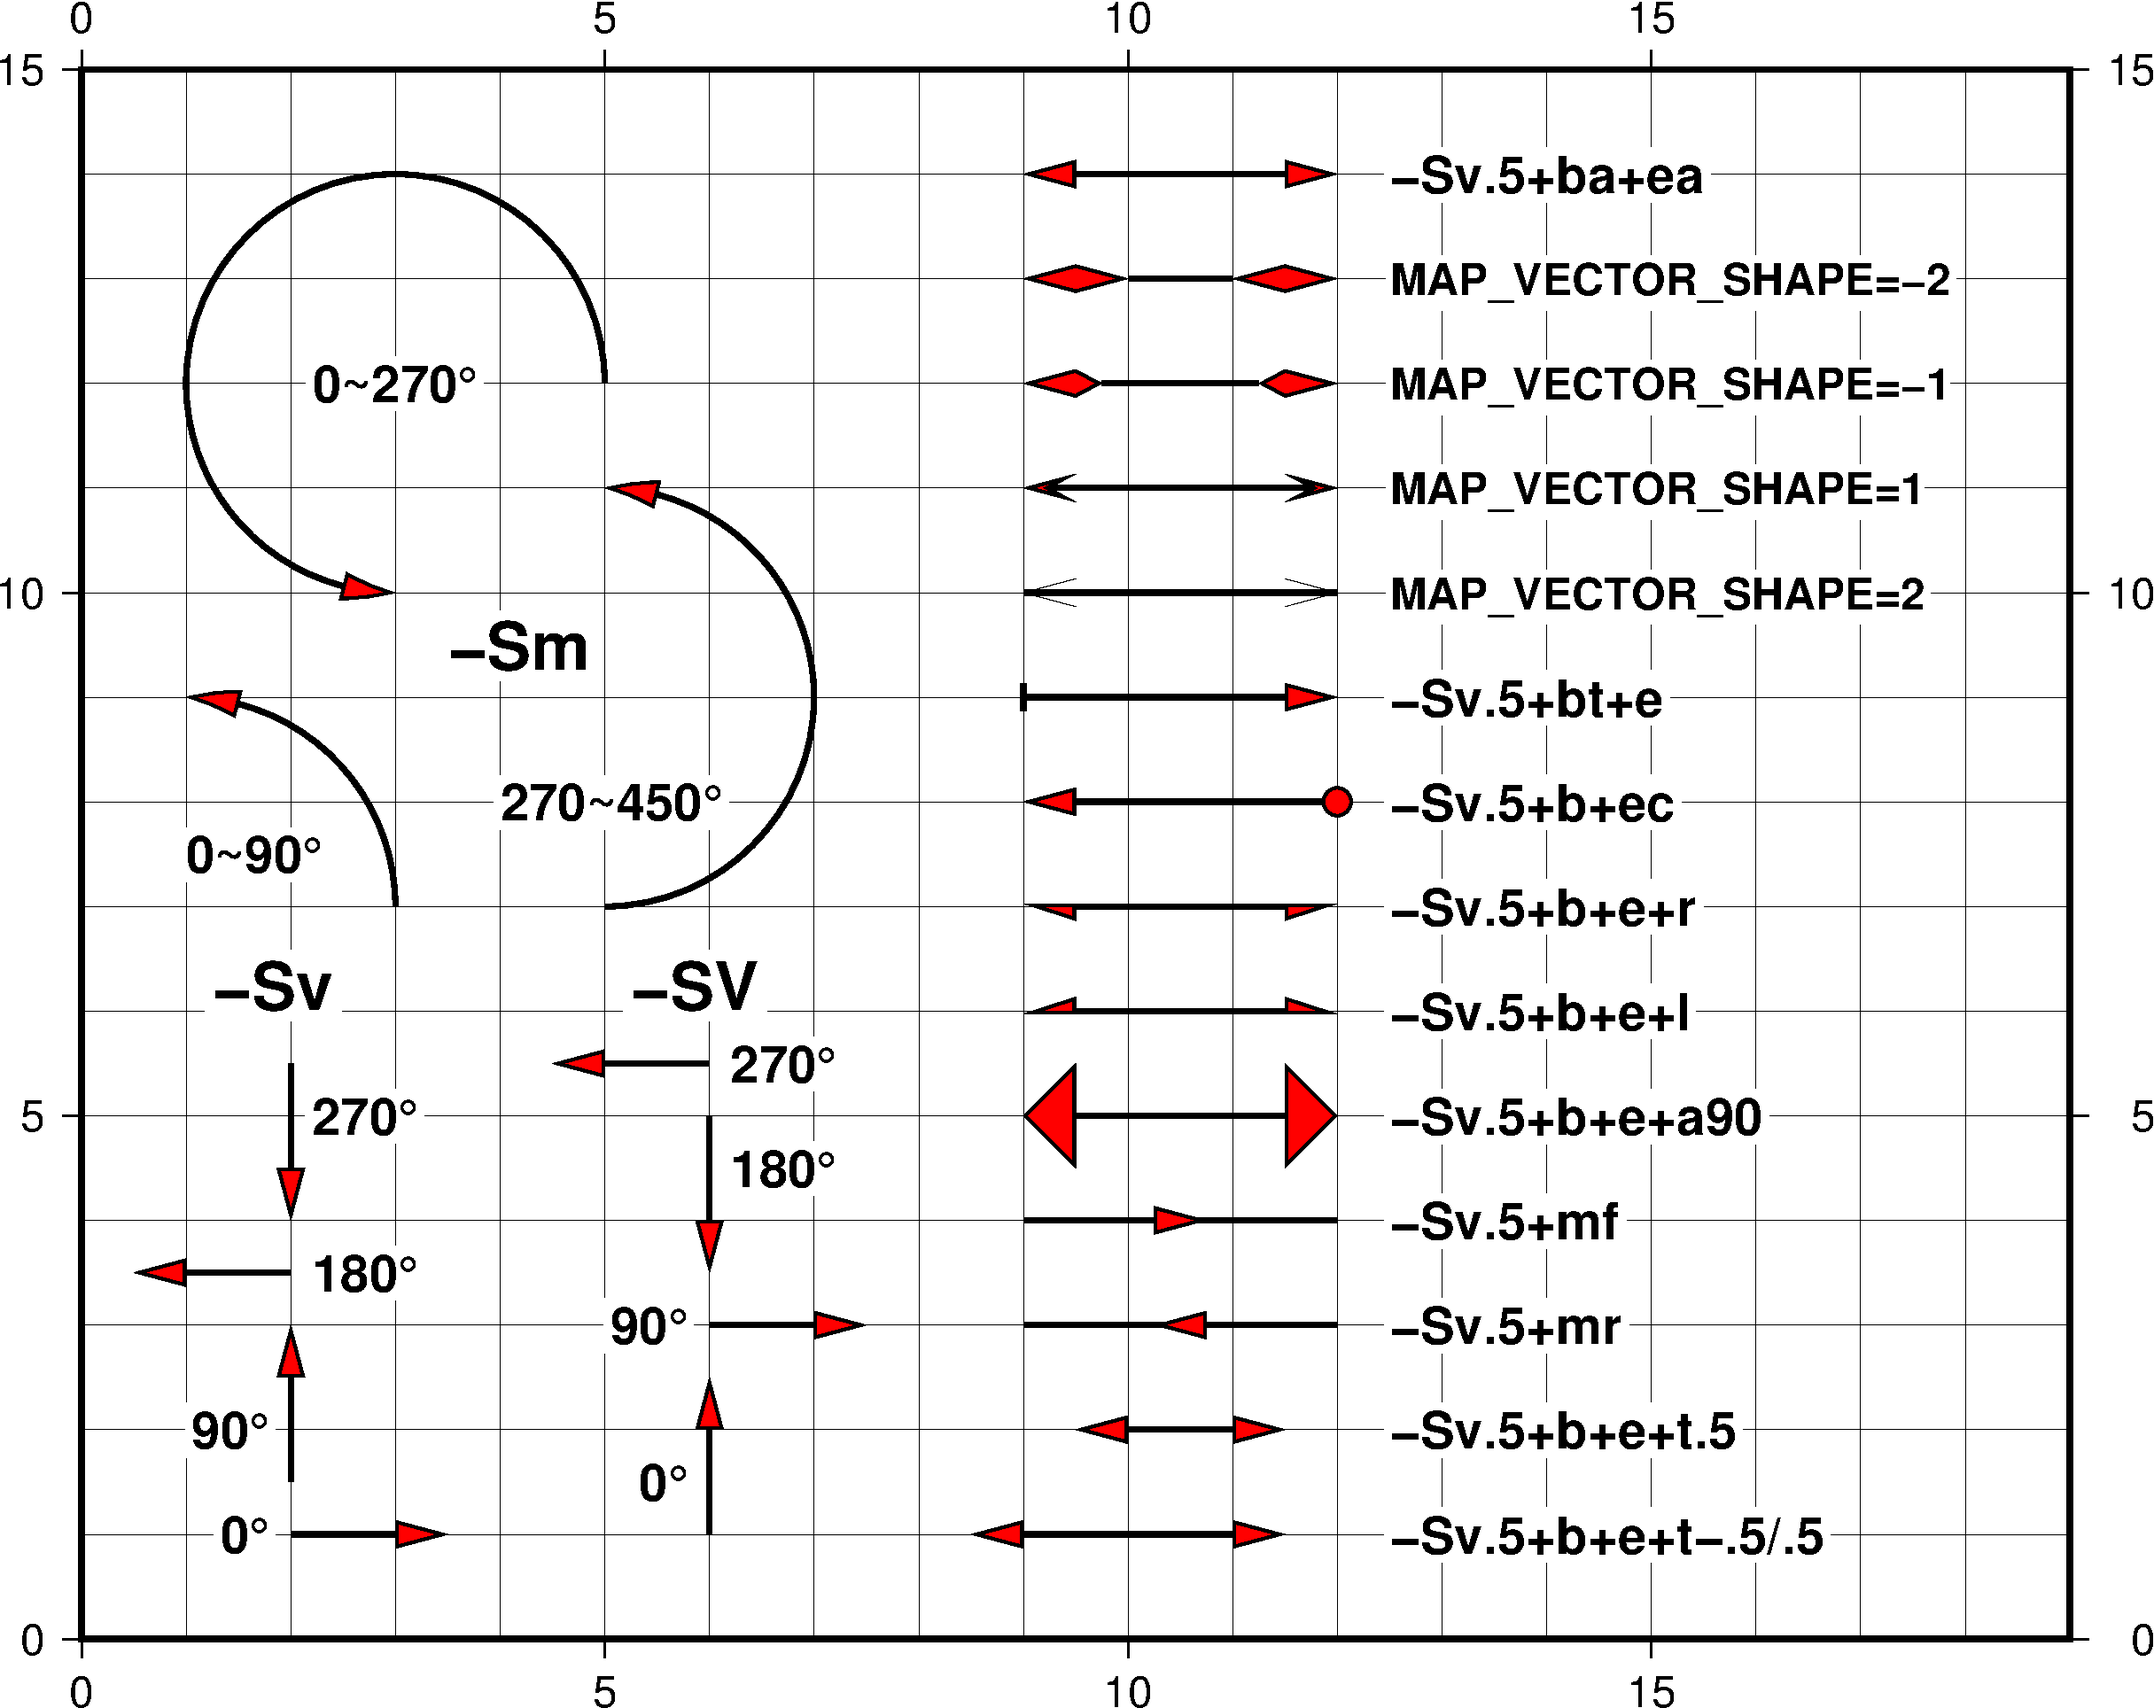
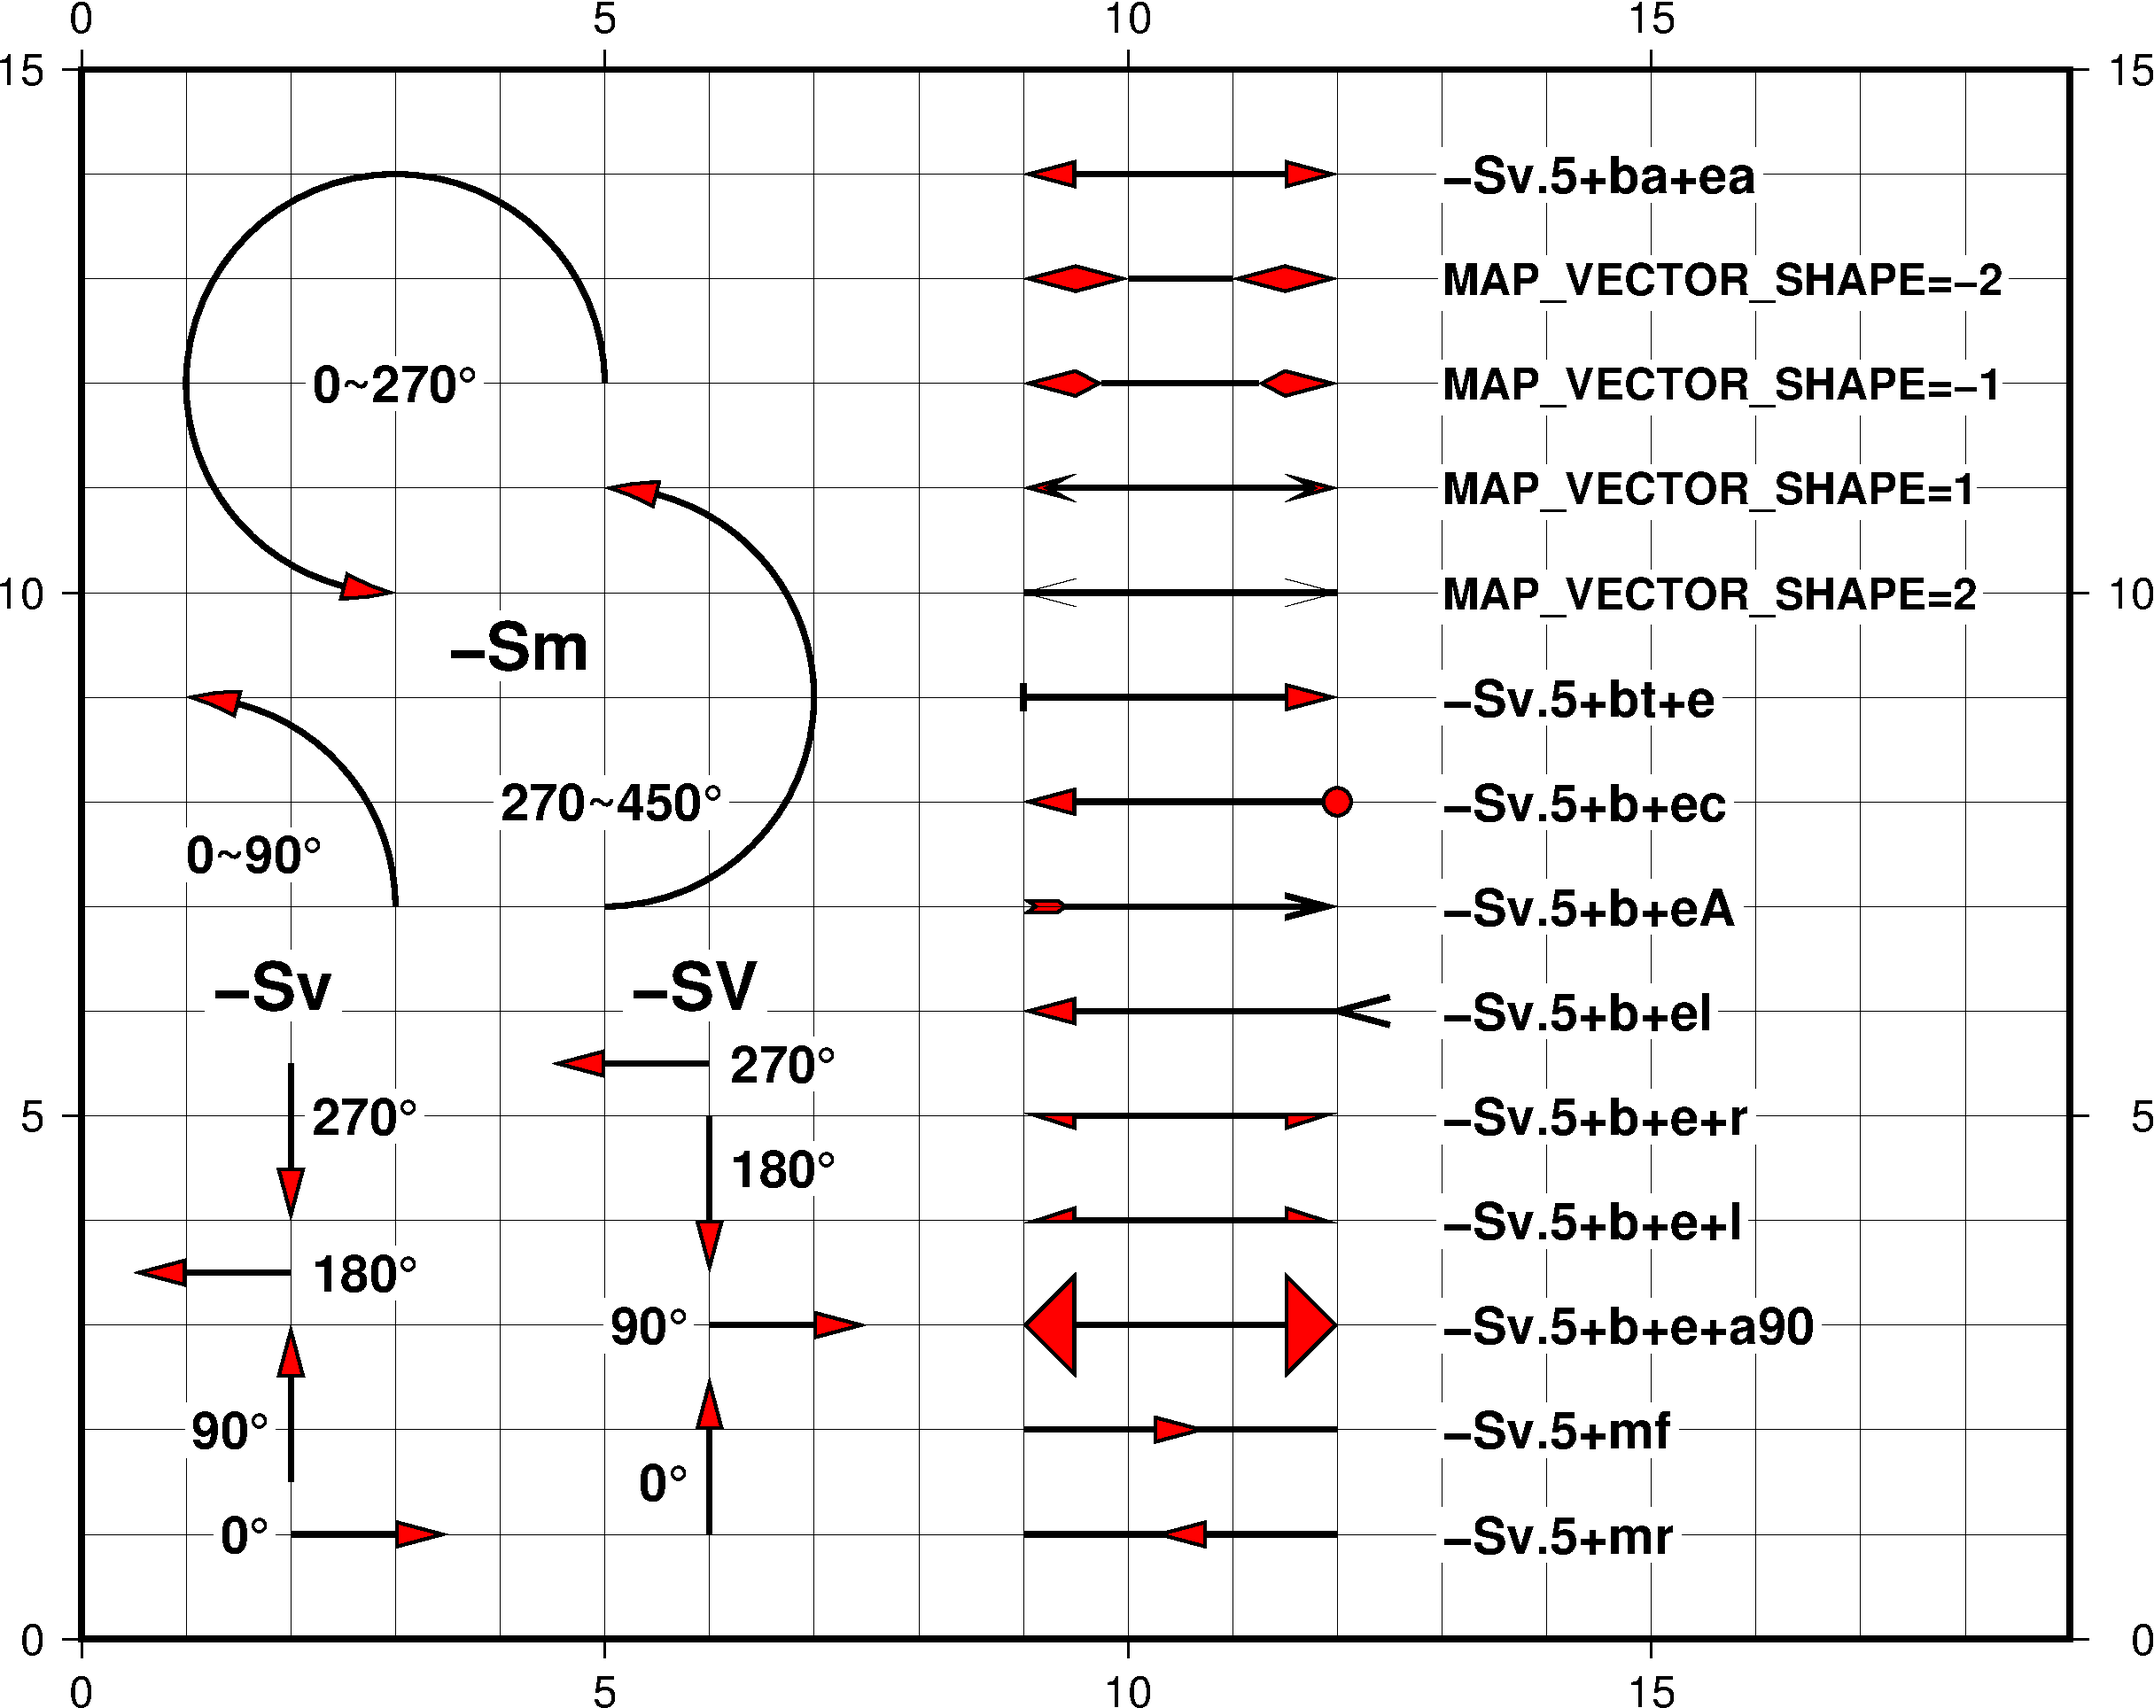
update 10-3

diff --git a/docs/vector_velocity.md b/docs/vector_velocity.md
@@ -125,6 +125,9 @@ del tmp*
     * **t**向量改用終端線(terminal line)表示
     * **c**向量改用圓形表示
     * **a**向量改用箭頭表示，默認值
+    * **i**向量改用箭尾表示
+    * **A**向量改用簡單箭頭表示
+    * **I**向量改用簡單箭尾表示
   * **+e**在結束位置繪製向量，其餘設置同**+b**。
   * **+l**只繪製左半邊的箭頭。
   * **+m**將向量頭繪製在中間，其餘設置同**+b**。
@@ -139,10 +142,8 @@ del tmp*
 * `-G`向量頭的顏色。
 * `-W`設定線段的寬度。
 
-從上圖中可以清楚地從各圖片配合旁邊的文字解說，了解各種向量頭的繪製方式，在新版(5.4.2)中，
-還有新增幾種向量頭的表示方式，**i**向量改用箭尾表示、**A**向量改用箭頭表示、
-**I**向量改用簡單箭尾表示，下一節將利用這些知識，加上實際的資料，
-來看看把向量繪製在地圖上的效果。
+從上圖中可以清楚地從各圖片配合旁邊的文字解說，了解各種向量頭的繪製方式，
+下一節將利用這些知識，加上實際的資料，來看看把向量繪製在地圖上的效果。
 
 ## 10.4 速度場
 從大氣水文資料庫得到莫拉克颱風期間的氣象測站資料(局屬和自動測站)，
